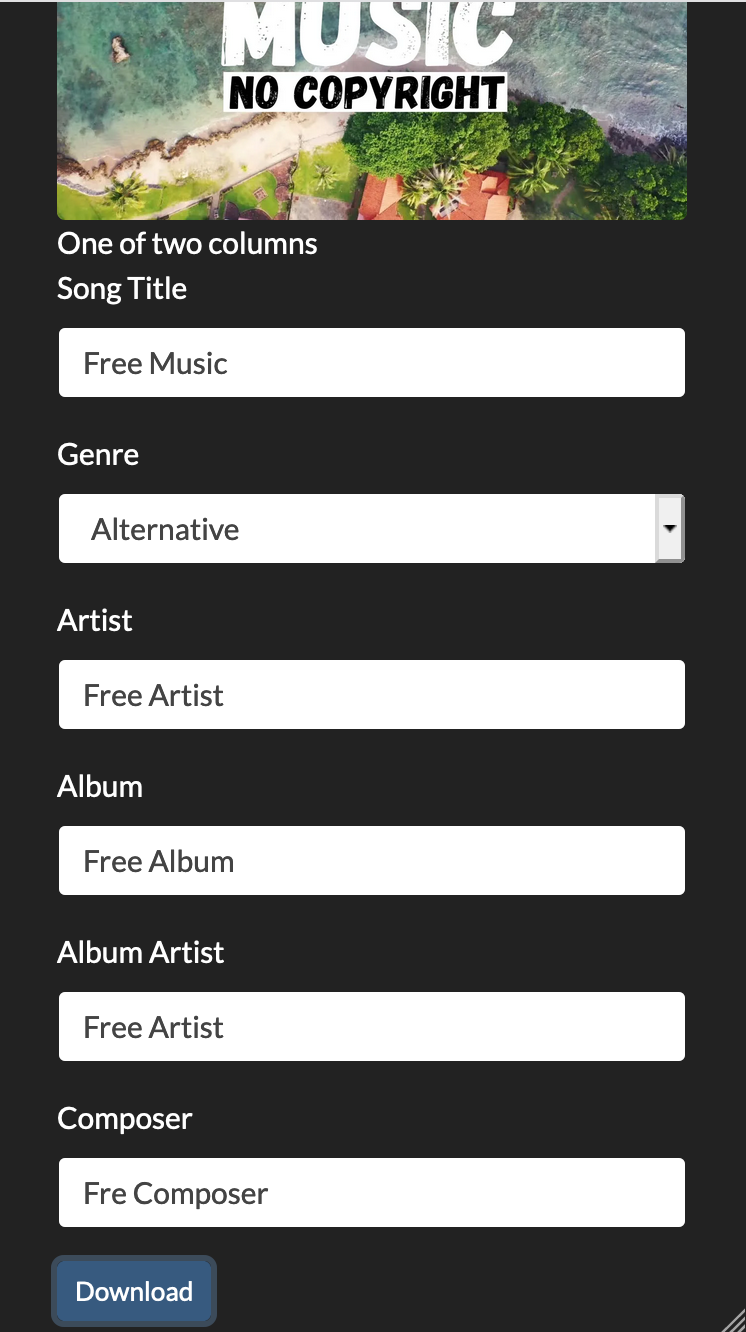
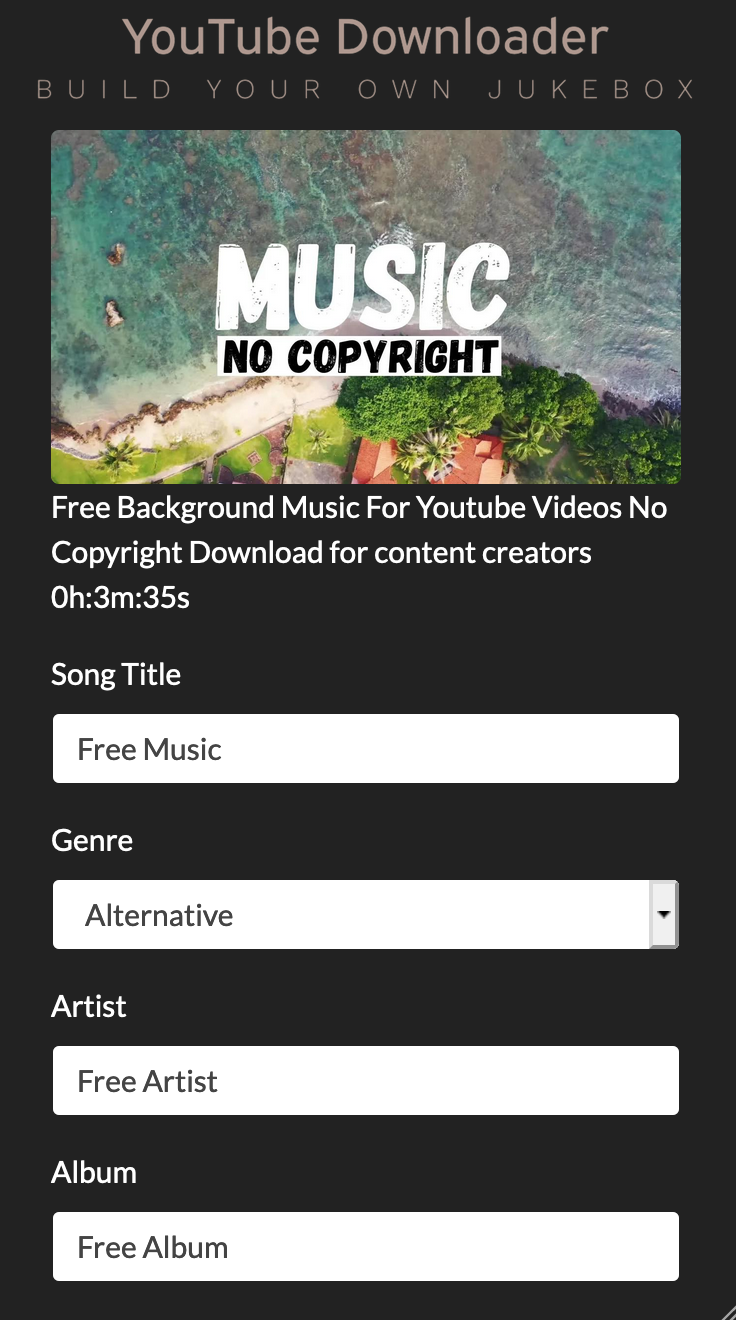
cleaned up readme and added images

diff --git a/README.md b/README.md
@@ -1,4 +1,5 @@
 # YouTube MP3 Downloader
+<img align="center" src="static/images/ytdl_image.png" width="800" />
 
 ### Installation
 
@@ -6,25 +7,25 @@
 1. Create a virtual environment.
 1. Have `ffmpeg` installed.
 1. If you want to host this on a Raspberry Pi, then [follow these instructions](https://www.techcoil.com/blog/how-to-setup-python-imaging-library-pillow-on-raspbian-stretch-lite-for-processing-images-on-your-raspberry-pi/) to install the `pillow` package dependencies.
-1. `pip install -U pip setuptools bootstrap-flask requests eyed3 flask-wtf pillow youtube-dl`
+1. `pip install -r requirements.txt`
+
+### Running in Development
 1. `export FLASK_APP=app.py`
 1. `flask run`
 1. Launch `http://127.0.0.1:5000/`
 
+### Running with Gunicorn (local)
+`gunicorn -b 0.0.0.0:4400 -w=4 app:app`
+
+### Running with Gunicorn behind Nginx
+
+https://www.e-tinkers.com/2018/08/how-to-properly-host-flask-application-with-nginx-and-guincorn/
+
 ### User Guide
 
-1. Follow the screenshots in the `images/` folder
-
-|   |  |
-| ------------- | ------------- |
-| ![](images/S1.png)  | ![](images/S2.png) |
-| ![](images/S3.png) |  |
-
-
-<img width="400" src="images/S1.png">
-
-<p float="left">
-  <img src="images/S1.png" width="300" />
-  <img src="images/S1.png" width="300" /> 
-  <img src="images/S1.png" width="300" />
+<p float="center">
+  <img src="images/S1.png" width="400" />
+  <img src="images/S2.png" width="400" /> 
+  <img src="images/S3.png" width="400" />
+  <img src="images/S4.png" width="400" />
 </p>
